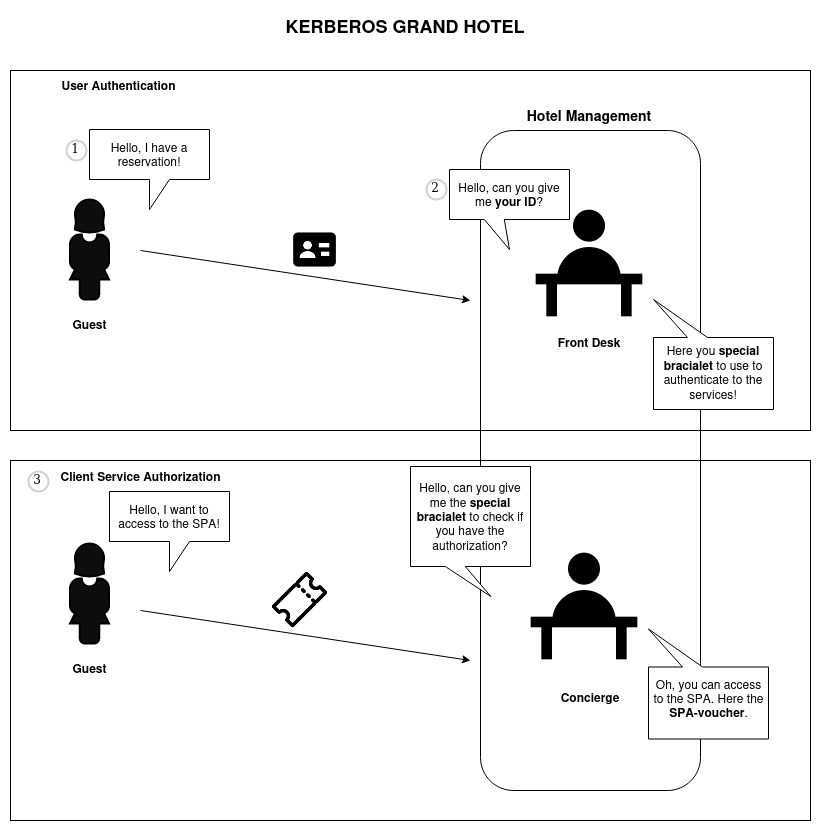
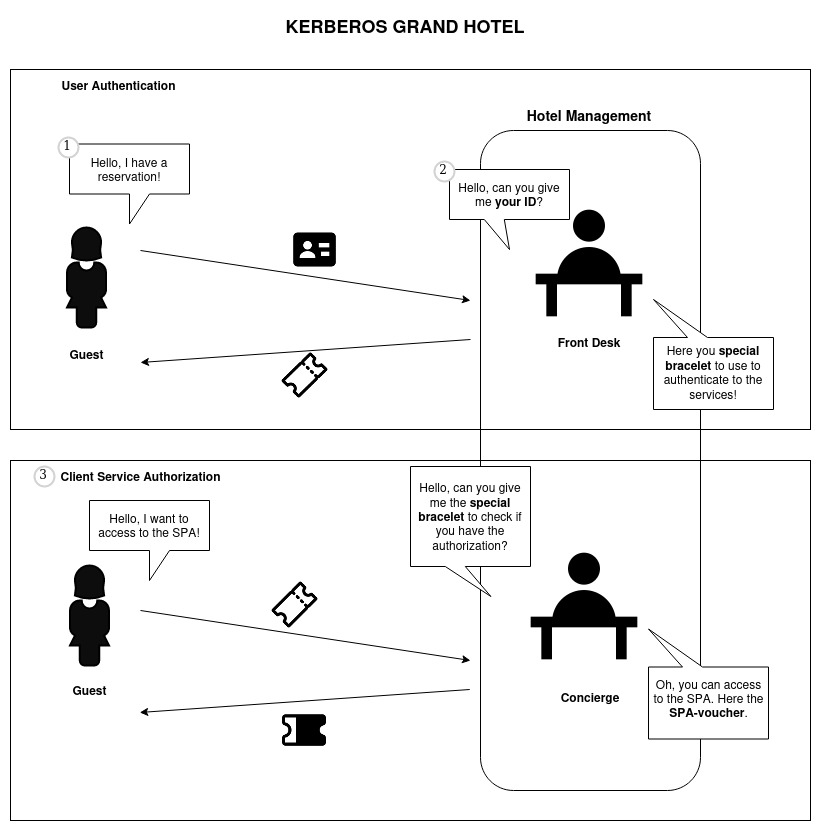
Edit Kerberos post

diff --git a/_posts/2023-08-06-kerberos.md b/_posts/2023-08-06-kerberos.md
@@ -1,12 +1,12 @@
 ---
 title: The Kerberos grand hotel
-categories: [Kerberos, Windows, Learn]
+categories: [Notes, Windows]
 tags: [Kerberos, Windows, Learn]
 ---
 
 # Kerberos
 
-![meme-kerberos](/assets/img/posts/kerberos/meme_kerberos.png)
+<img src="/assets/img/posts/kerberos/meme_kerberos.png" width="60%" height="60%">
 
 
 Kerberos, though a complex topic, can be better understood by drawing parallels with a hotel analogy. Imagine the Kerberos system as a hotel, and its various components as essential services within this hotel.
@@ -22,6 +22,8 @@ In summary, Kerberos, like a well-managed hotel, guarantees a safe and controlle
 ## <span style="color: var(--link-color);">Components</span>
 Before delving into the Kerberos process, let's first understand the various components involved.
 
+In Kerberos, the concept of a **Realm** can be likened to the "Hotel Premises" – a logical boundary encompassing all hotel facilities and services. To access any hotel service, guests are required to undergo authentication within this realm.
+
 The key components of Kerberos include (with the hotel analogy in brackets):
 1. **Principal** (Guest): In our hotel analogy, a guest represents a user or a service that wants to access various hotel facilities or services. Each guest has a unique identifier, like a room number or a name, that distinguishes them from others in the hotel.
 
@@ -31,15 +33,15 @@ The key components of Kerberos include (with the hotel analogy in brackets):
 
 4. **Key Distribution Center - KDC** (Hotel Management): The hotel management plays the role of the Key Distribution Center. It oversees the front desk (AS) and the concierge (TGS). The management ensures that both the front desk and concierge have access to the necessary information to authenticate guests and issue service-specific vouchers. It also handles the generation and distribution of encryption keys (room keys) used for securing access to the services.
 
-5. **Realm** (Hotel Premises): The hotel premises represent the Kerberos realm. It's a logical boundary that includes all the hotel facilities and services. Guests must be authenticated within this realm to access hotel services.
+5. **Ticket** (Special Bracelet): The special bracelet given by the front desk (AS) is like the Ticket in Kerberos. It serves as proof of identity and allows the guest (principal) to request access to various services without re-authenticating repeatedly.
 
-6. **Ticket** (Special Bracelet): The special bracelet given by the front desk (AS) is like the Ticket in Kerberos. It serves as proof of identity and allows the guest (principal) to request access to various services without re-authenticating repeatedly.
+6. **Service Ticket** (Service-Specific Voucher): The service-specific voucher issued by the concierge (TGS) is similar to the Service Ticket in Kerberos. It is used by the guest to access specific hotel services (e.g., spa, restaurant) without revealing their original identification repeatedly.
 
-7. **Service Ticket** (Service-Specific Voucher): The service-specific voucher issued by the concierge (TGS) is similar to the Service Ticket in Kerberos. It is used by the guest to access specific hotel services (e.g., spa, restaurant) without revealing their original identification repeatedly.
+For completeness, two other components are present in Kerberos:
 
-8. **Session Key** (Room Key): The room key represents the Session Key in Kerberos. It is a temporary key provided to the guest for securing communication with a specific service (e.g., hotel room). The guest and the service (e.g., hotel room lock) use this key to encrypt and decrypt their communication during the stay.
+- The **Session Key** (Room Key): The room key represents the Session Key in Kerberos. It is a temporary key provided to the guest for securing communication with a specific service (e.g., hotel room). The guest and the service (e.g., hotel room lock) use this key to encrypt and decrypt their communication during the stay.
 
-9. **Clock Skew** (Clock Synchronization): To ensure smooth operations, the hotel management (KDC) ensures that all clocks in the hotel (AS, TGS, and services) are synchronized. This avoids confusion and prevents problems that could arise due to time differences.
+- The **Clock Skew** (Clock Synchronization): To ensure smooth operations, the hotel management (KDC) ensures that all clocks in the hotel (AS, TGS, and services) are synchronized. This avoids confusion and prevents problems that could arise due to time differences.
 
 
 ## <span style="color: var(--link-color);">Kerberos Process</span>
@@ -58,14 +60,19 @@ If the credentials are valid, the front desk (AS) issues a special bracelet (TGT
 Now, with the special bracelet (TGT), the guest (user) can access different services (resources) in the hotel (Kerberos realm) without re-authenticating each time.
 Suppose the guest wants to use the spa (service) first. They go to the concierge (TGS) and present their bracelet (TGT) along with a request for the spa service.
 The concierge (TGS) checks the bracelet (TGT) to verify the guest's identity (authentication). Once verified, the concierge (TGS) issues a service-specific voucher (service ticket) for the spa.
-![process-kerberos](/assets/img/posts/kerberos/kerberos-hotel1.jpg)
+	<figure>
+	<img src="/assets/img/posts/kerberos/kerberos-hotel1.jpg">
+    <figcaption style="text-align: center;">I know, I know! There is no bracelet in the image but I'm not able to draw it! I'm sorry &#128532; </figcaption>
+	</figure>
 
 4. **Accessing the Service (Resource)**:
 With the spa service ticket in hand, the guest (user) goes to the spa entrance (service) and presents the service ticket to the spa staff (resource).
 The spa staff (resource) checks the service ticket and validates it by decrypting it with their own key (session key).
 If the ticket is valid, the guest (user) is allowed entry to the spa (resource) without revealing their original identification (username and password).
-![process-kerberos](/assets/img/posts/kerberos/kerberos-hotel2.jpg)
-
+<figure>
+	<img src="/assets/img/posts/kerberos/kerberos-hotel2.jpg">
+    <figcaption style="text-align: center;">Again, no bracelet! &#128532; </figcaption>
+</figure>
 
 Now that the guest (user) has enjoyed the spa, they want to have dinner at the hotel's restaurant (another service). To access the restaurant, they show their special bracelet (TGT) to the concierge (TGS) again and request a restaurant service ticket.
 The concierge (TGS) verifies the bracelet (TGT), issues the restaurant service ticket, and the guest (user) can dine at the restaurant without the need for re-authentication.

diff --git a/_posts/2022-05-30-proxy.md b/_posts/2022-05-30-proxy.md
@@ -1,7 +1,7 @@
 ---
 title: Proxy
-categories: [Learn, Notes]
-tags: [Proxy, Learn, Notes]
+categories: [Notes, Network]
+tags: [Proxy, Learn, Notes, Network]
 ---
 
 # <span style="color: var(--link-color);">What about Proxy?</span>

diff --git a/_posts/2021-11-06-thin-job.md b/_posts/2021-11-06-thin-job.md
@@ -1,6 +1,6 @@
 ---
 title: Thin Job
-categories: [Box, ThinJob, MyBox, WriteUp]
+categories: [WriteUp, ThinJob]
 tags: [ThinJob, MyBox, FileThingie, CronJob, Symlink, Linux, WriteUp]
 ---
 

diff --git a/_posts/2021-03-30-windows-privesc-arena.md b/_posts/2021-03-30-windows-privesc-arena.md
@@ -1,6 +1,6 @@
 ---
 title: Windows PrivEsc Arena
-categories: [TryHackMe, WriteUp, Windows]
+categories: [WriteUp, TryHackMe]
 tags: [Widows, TryHackMe, WriteUp, PrivEsc]
 ---
 

diff --git a/_posts/2021-03-28-steel-mountain.md b/_posts/2021-03-28-steel-mountain.md
@@ -1,6 +1,6 @@
 ---
 title: Steel Mountain
-categories: [TryHackMe, WriteUp]
+categories: [WriteUp, TryHackMe]
 tags: [Steel Mountain, TryHackMe, WriteUp]
 ---
 

diff --git a/_posts/2022-06-22-seasurfer.md b/_posts/2022-06-22-seasurfer.md
@@ -1,6 +1,6 @@
 ---
 title: Sea Surfer
-categories: [TryHackMe, WriteUp]
+categories: [WriteUp, TryHackMe]
 tags: [SeaSurfer, TryHackMe, WriteUp]
 ---
 

diff --git a/_posts/2021-04-02-alfred.md b/_posts/2021-04-02-alfred.md
@@ -1,6 +1,6 @@
 ---
 title: Alfred
-categories: [TryHackMe, WriteUp]
+categories: [WriteUp, TryHackMe]
 tags: [Alfred, TryHackMe, WriteUp]
 ---
 

diff --git a/_posts/2022-06-07-ollie.md b/_posts/2022-06-07-ollie.md
@@ -1,6 +1,6 @@
 ---
 title: Ollie
-categories: [TryHackMe, WriteUp]
+categories: [WriteUp, TryHackMe]
 tags: [Ollie, TryHackMe, WriteUp]
 ---
 

diff --git a/_posts/2023-04-06-api-pentest.md b/_posts/2023-04-06-api-pentest.md
@@ -1,6 +1,6 @@
 ---
 title: API Pentest
-categories: [Learn, Notes]
+categories: [Notes, API]
 tags: [OWASP, Learn, Notes]
 ---
 
